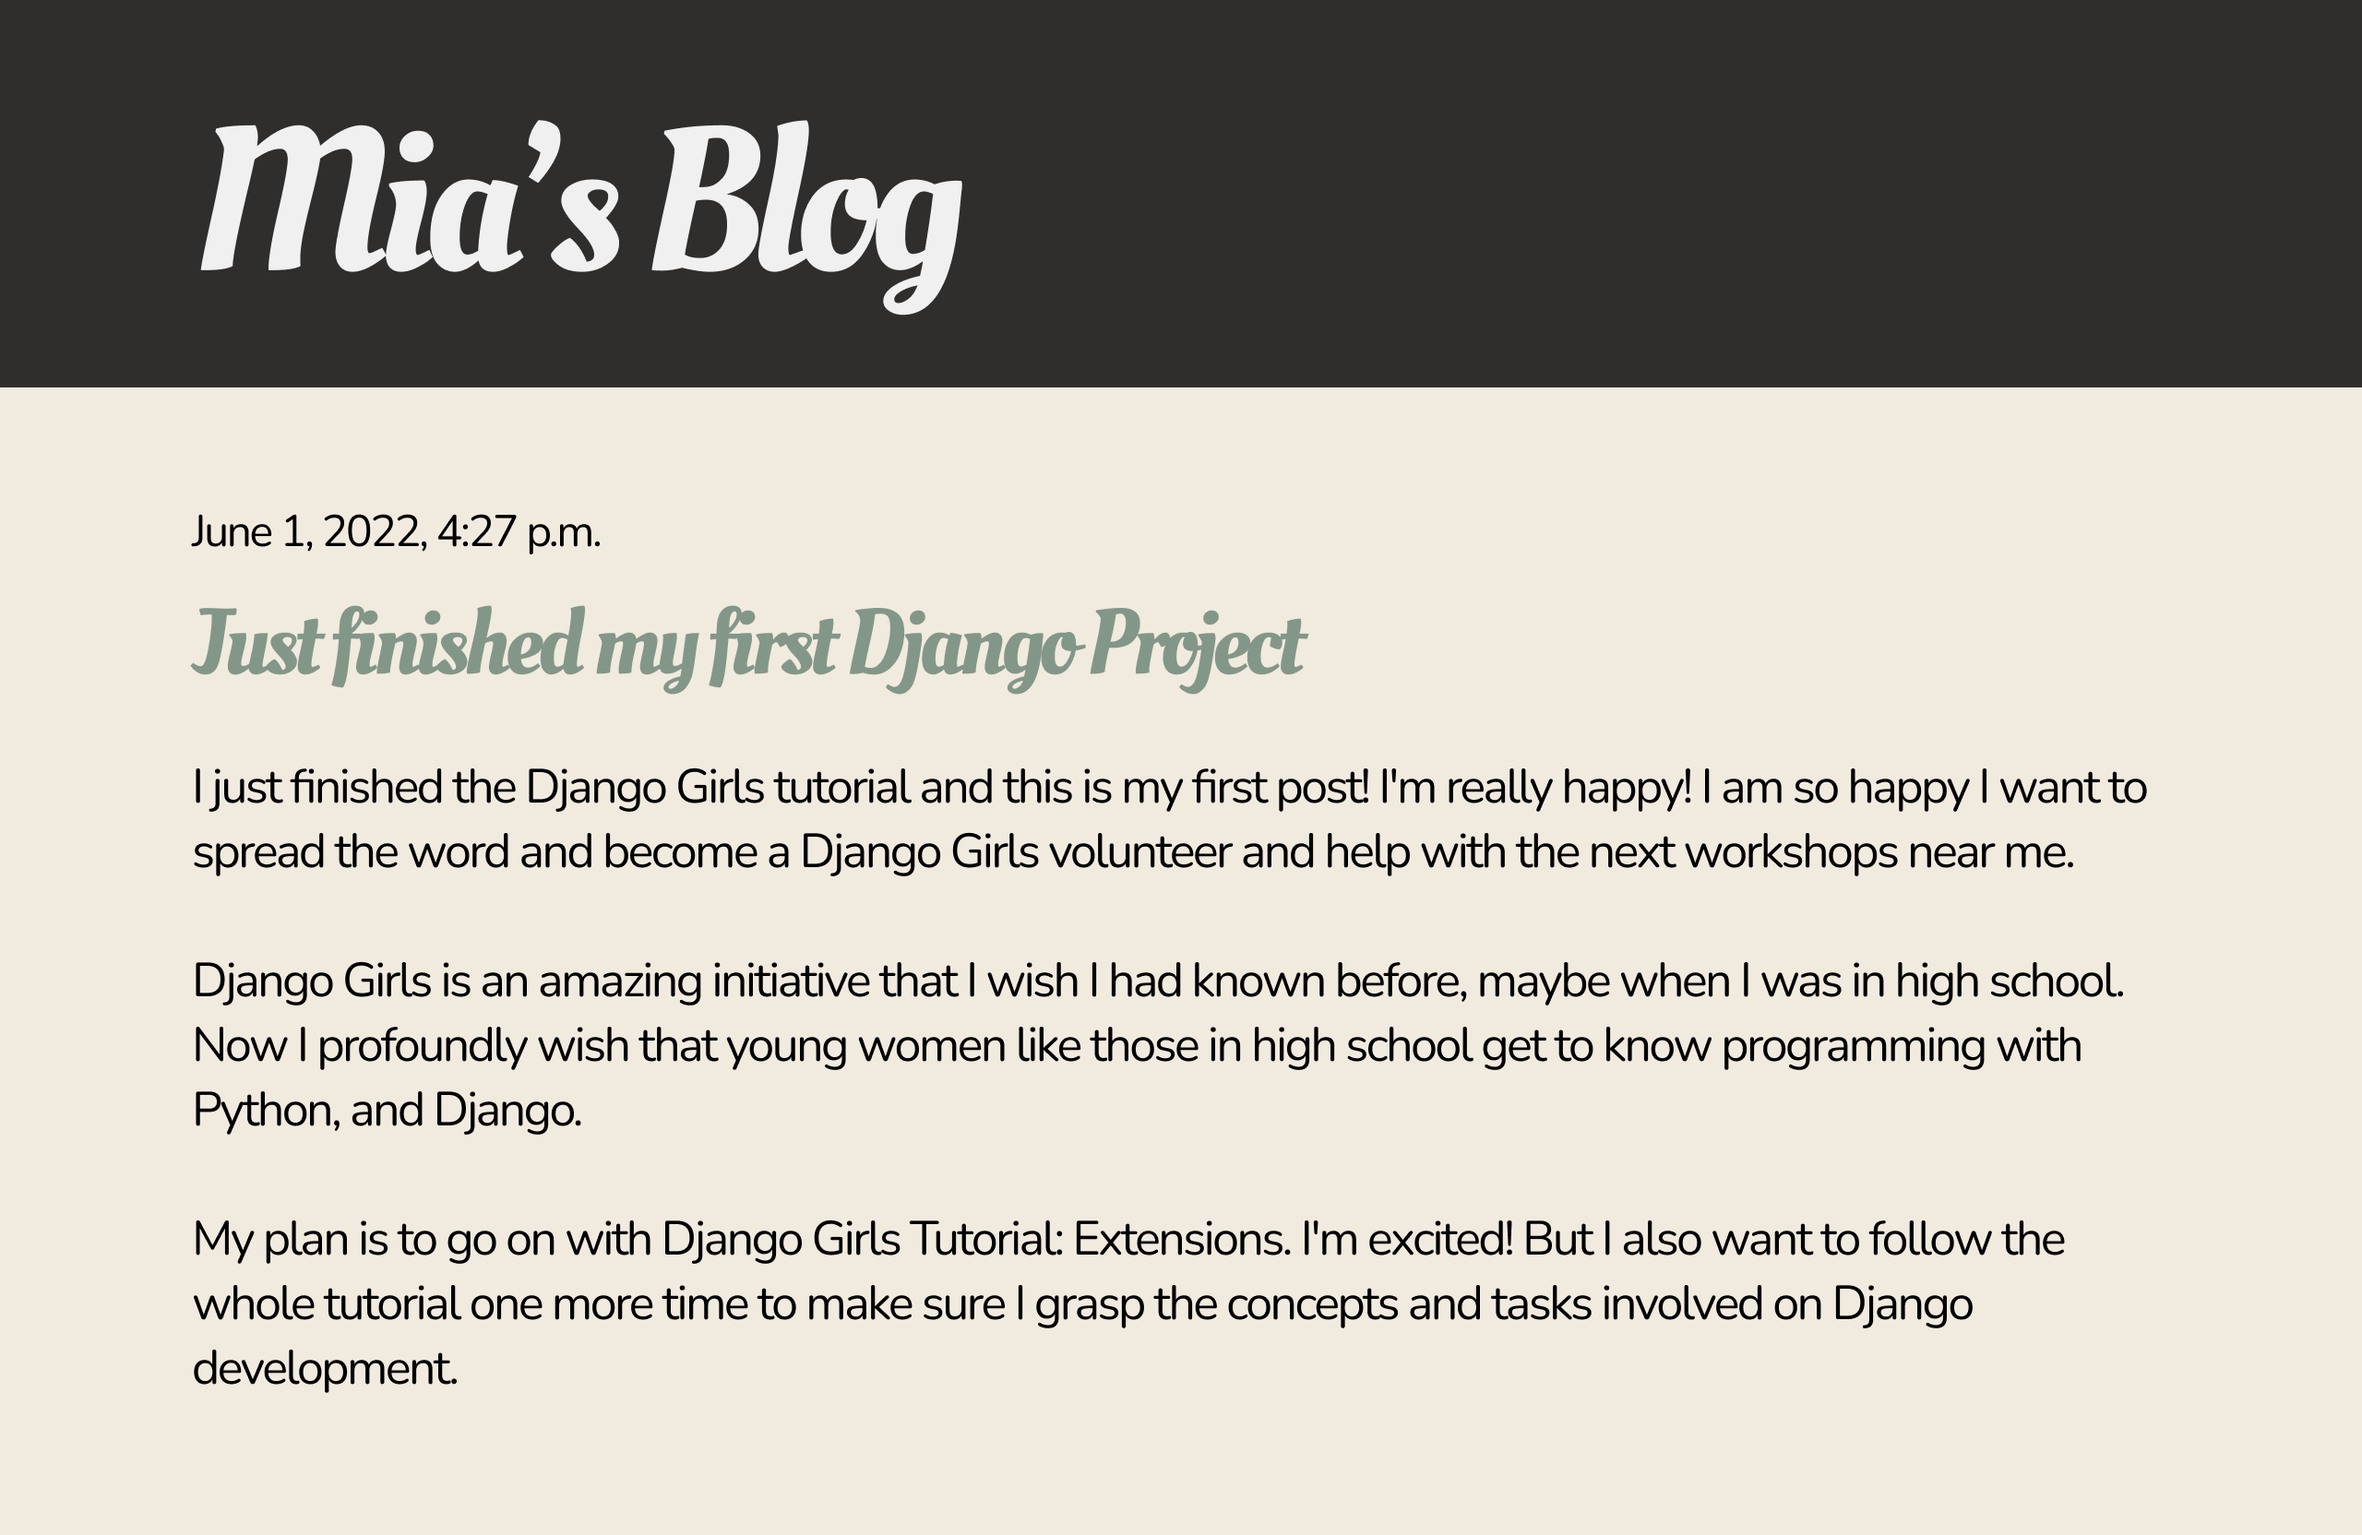
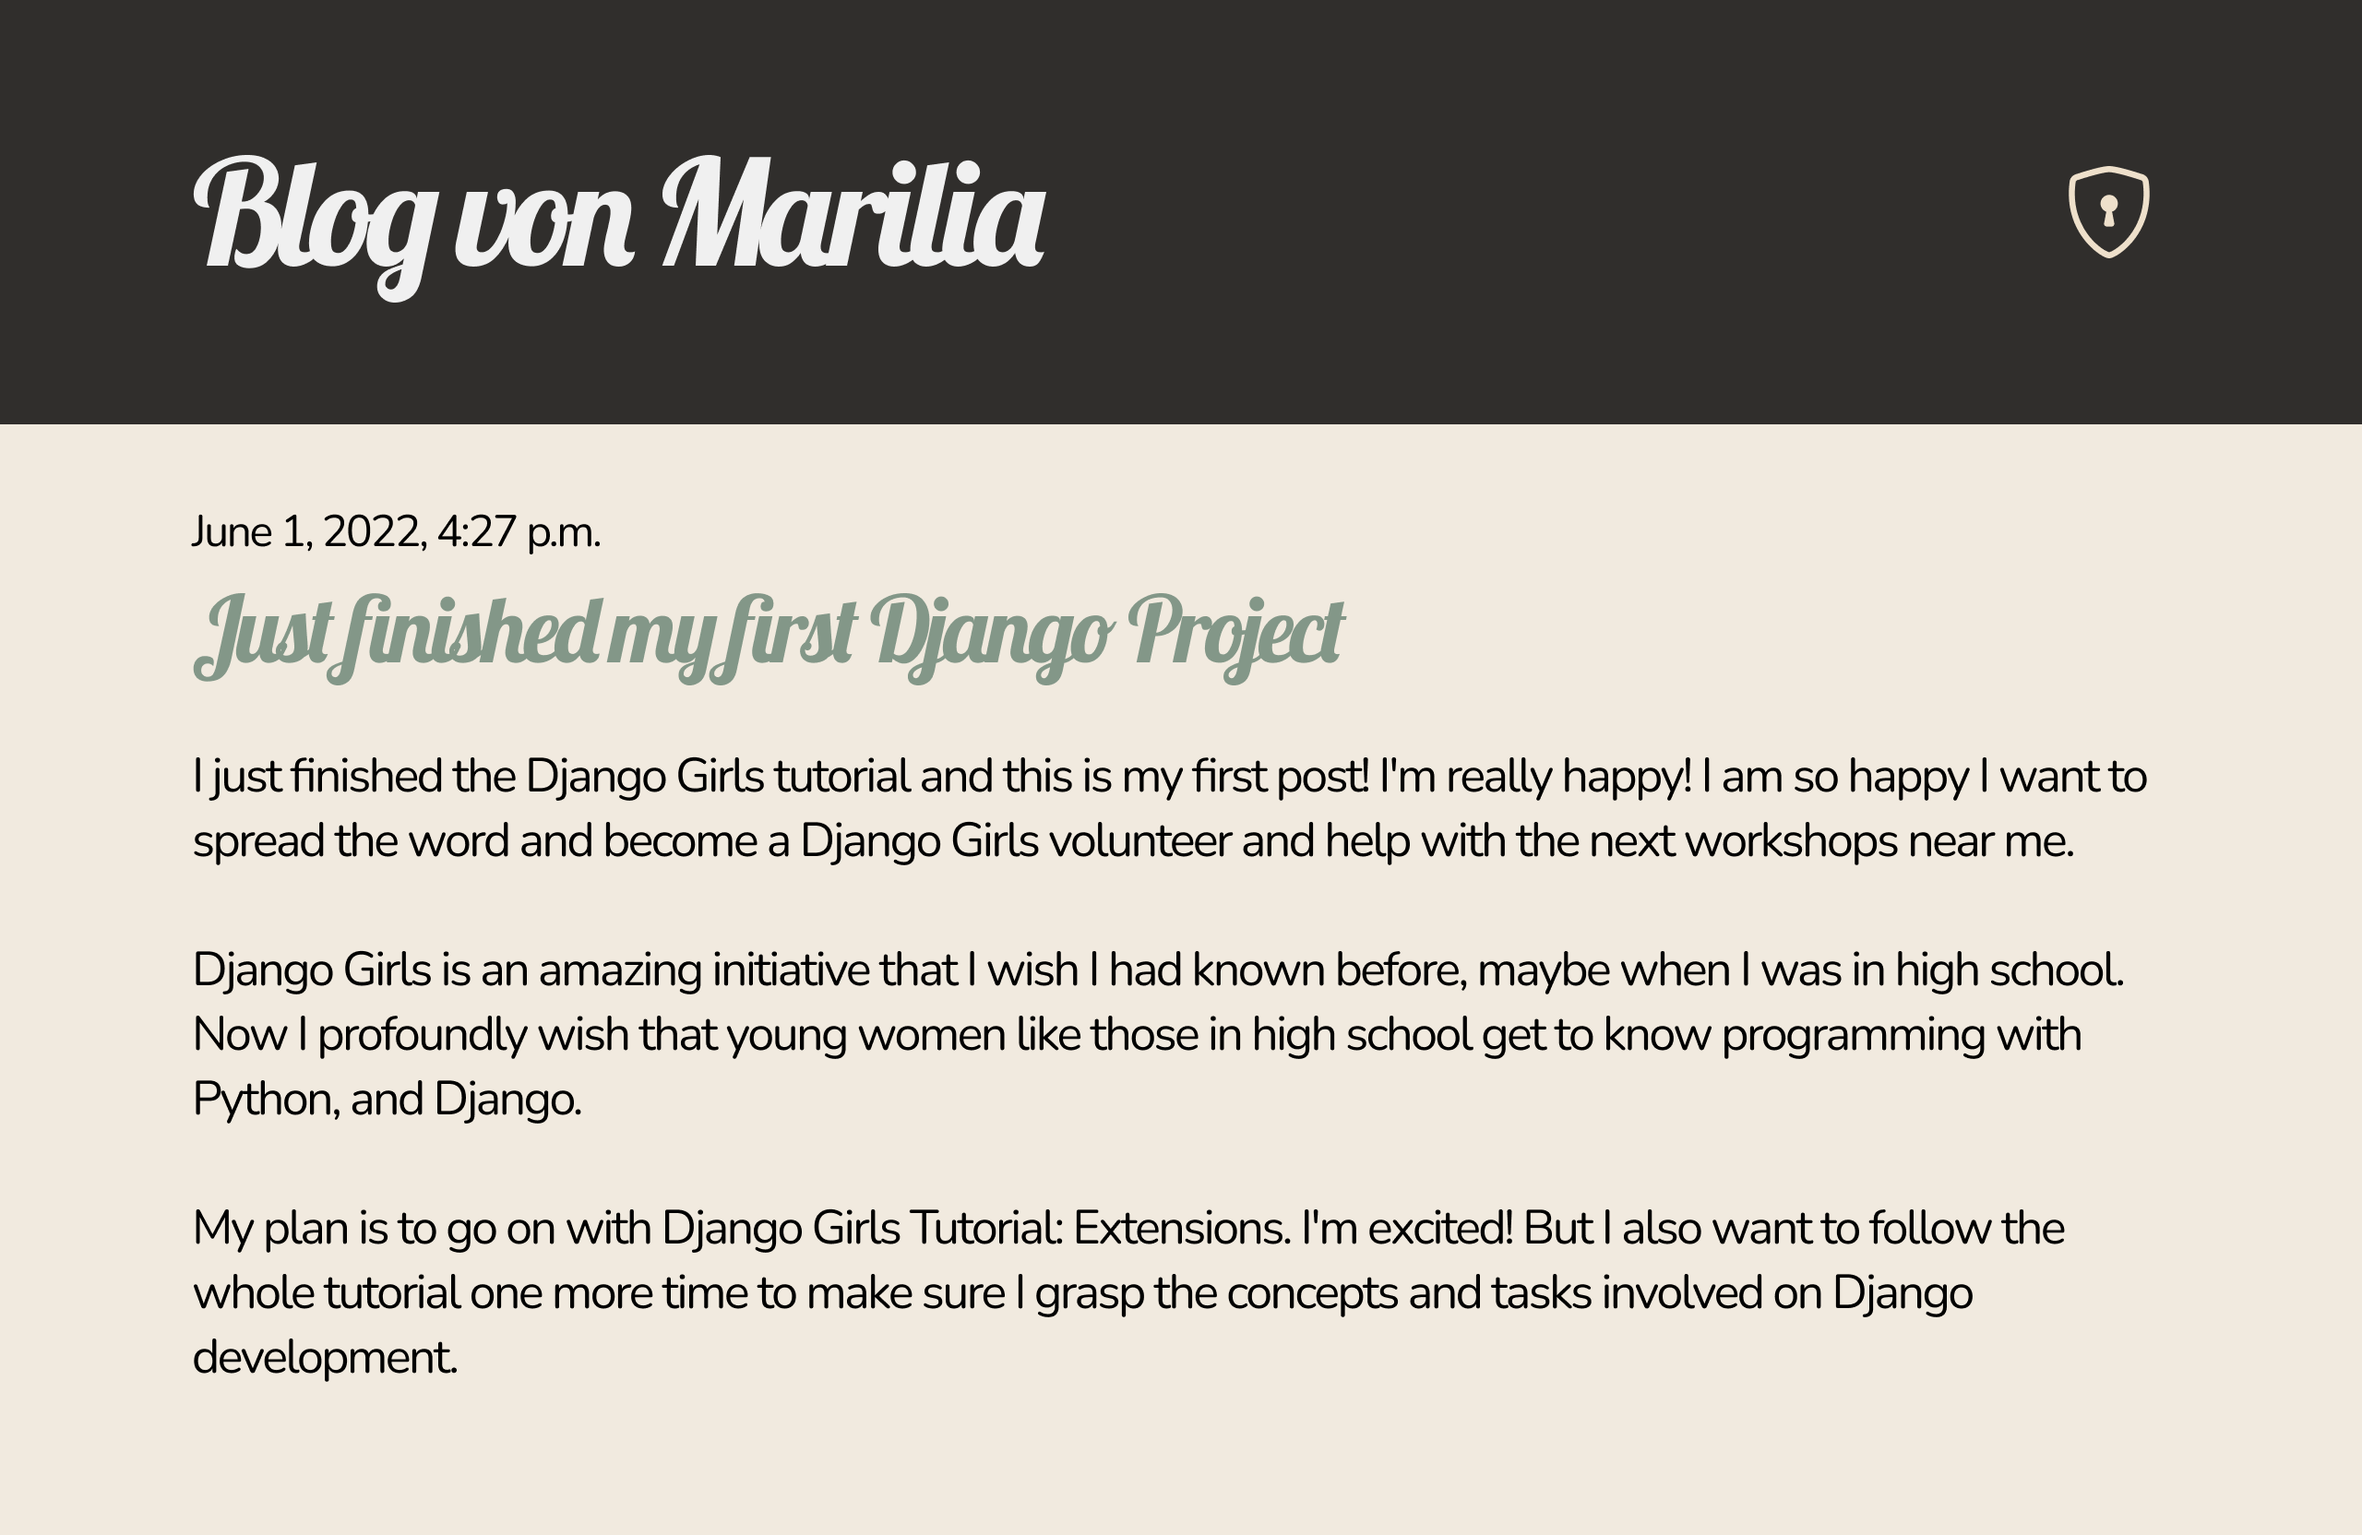
Update page

diff --git a/src/components/IntroCard.jsx b/src/components/IntroCard.jsx
@@ -5,8 +5,8 @@ export default function IntroCard() {
   return (
     <Card className="mb-4">
       <Card.Body>
-        <p className="h4">Hi, my name is Mia! <AiOutlineSmile /></p>
-        I am a software developer based in Belo Horizonte, Brazil, and currently working at <a href="https://www.t-systems.com/de/en" target="_blank">T-Systems</a>. In my free time, I enjoy reading, practicing origami, learning new languages, and studying computer science.
+        <p className="h4">Hi, my name is Marilia! <AiOutlineSmile /></p>
+        I am a software developer based in Belo Horizonte, Brazil, and currently working at <a href="https://www.t-systems.com/de/en" target="_blank">T-Systems</a>. In my free time, I enjoy reading, learning new languages, studying computer science, and spending time doing origami and bookbinding.
       </Card.Body>
     </Card>
   )

diff --git a/src/components/Header.jsx b/src/components/Header.jsx
@@ -9,7 +9,7 @@ export default function Header() {
             <Image src="MCF.jpg" roundedCircle fluid></Image>
           </Col>
           <Col xs={8} md={10}>
-            <h1 className="ml-3">Mia Ferreira</h1>
+            <h1 className="ml-3">Marilia Ferreira</h1>
           </Col>
         </Row>  
       </Container>

diff --git a/README.md b/README.md
@@ -3,3 +3,8 @@ To run this app, run:
 >>> npm install
 >>> npm run dev
 ```
+
+To deploy again, run:
+```
+>>> npm run deploy
+```
